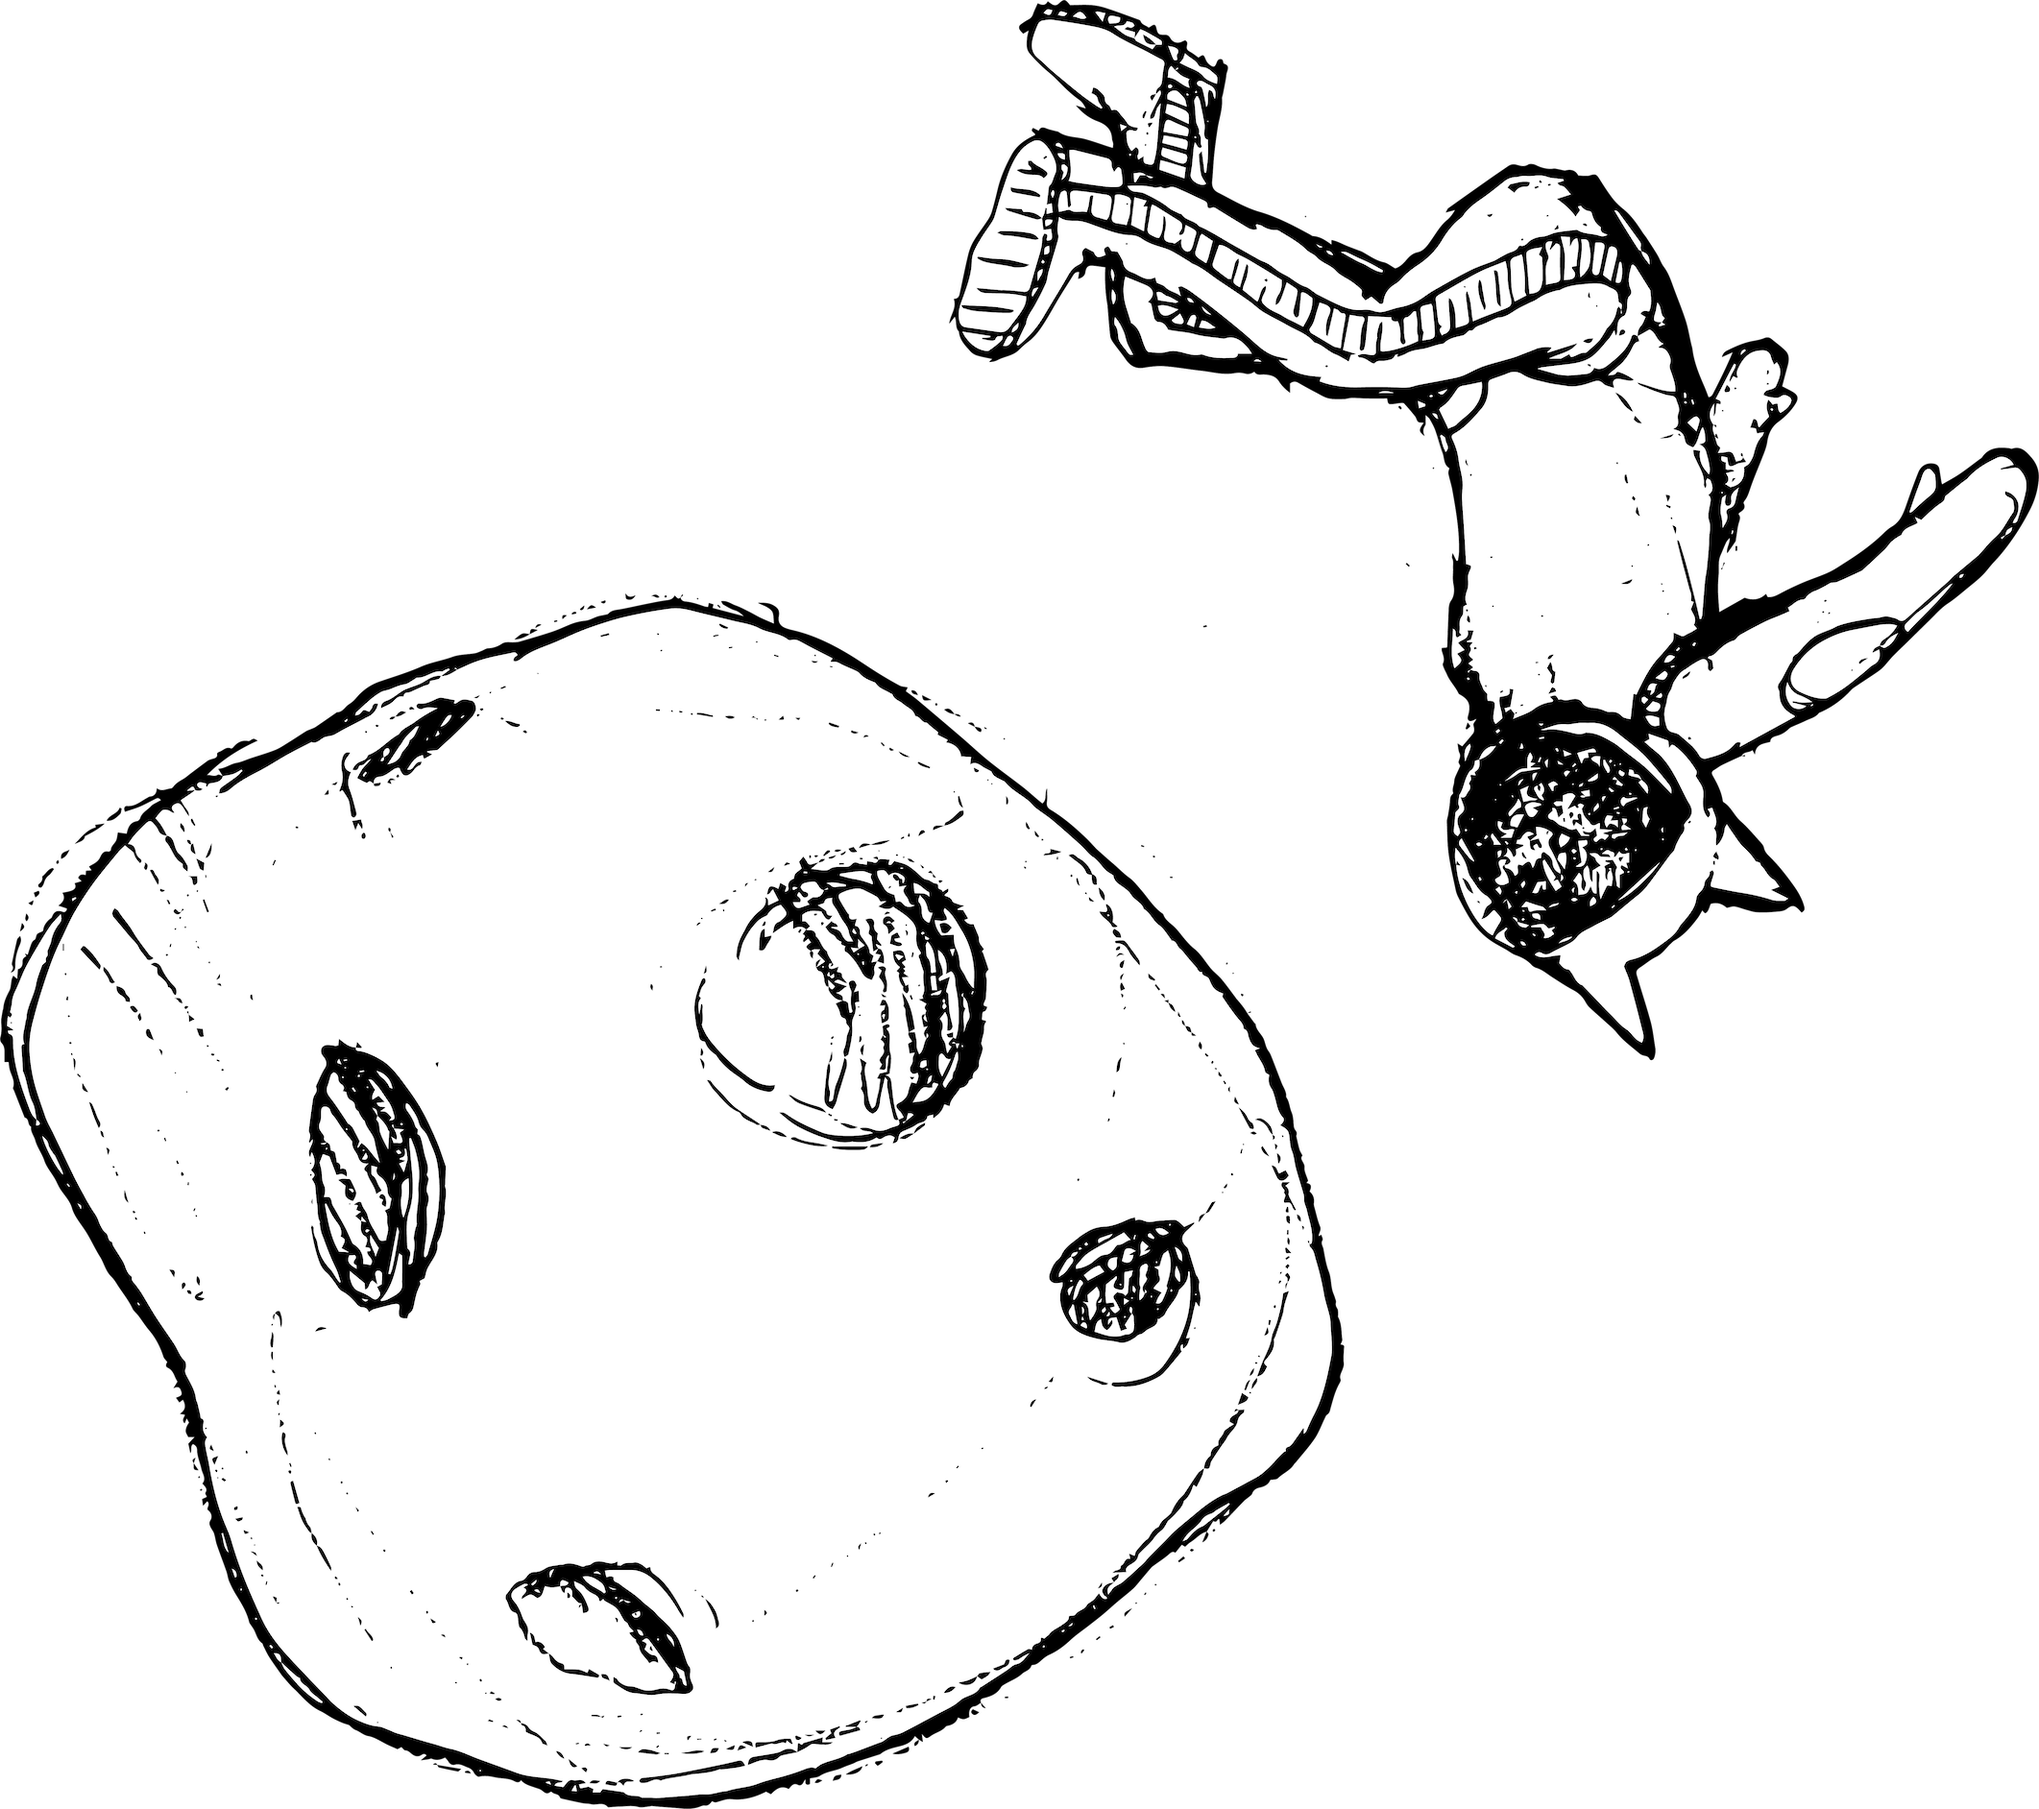
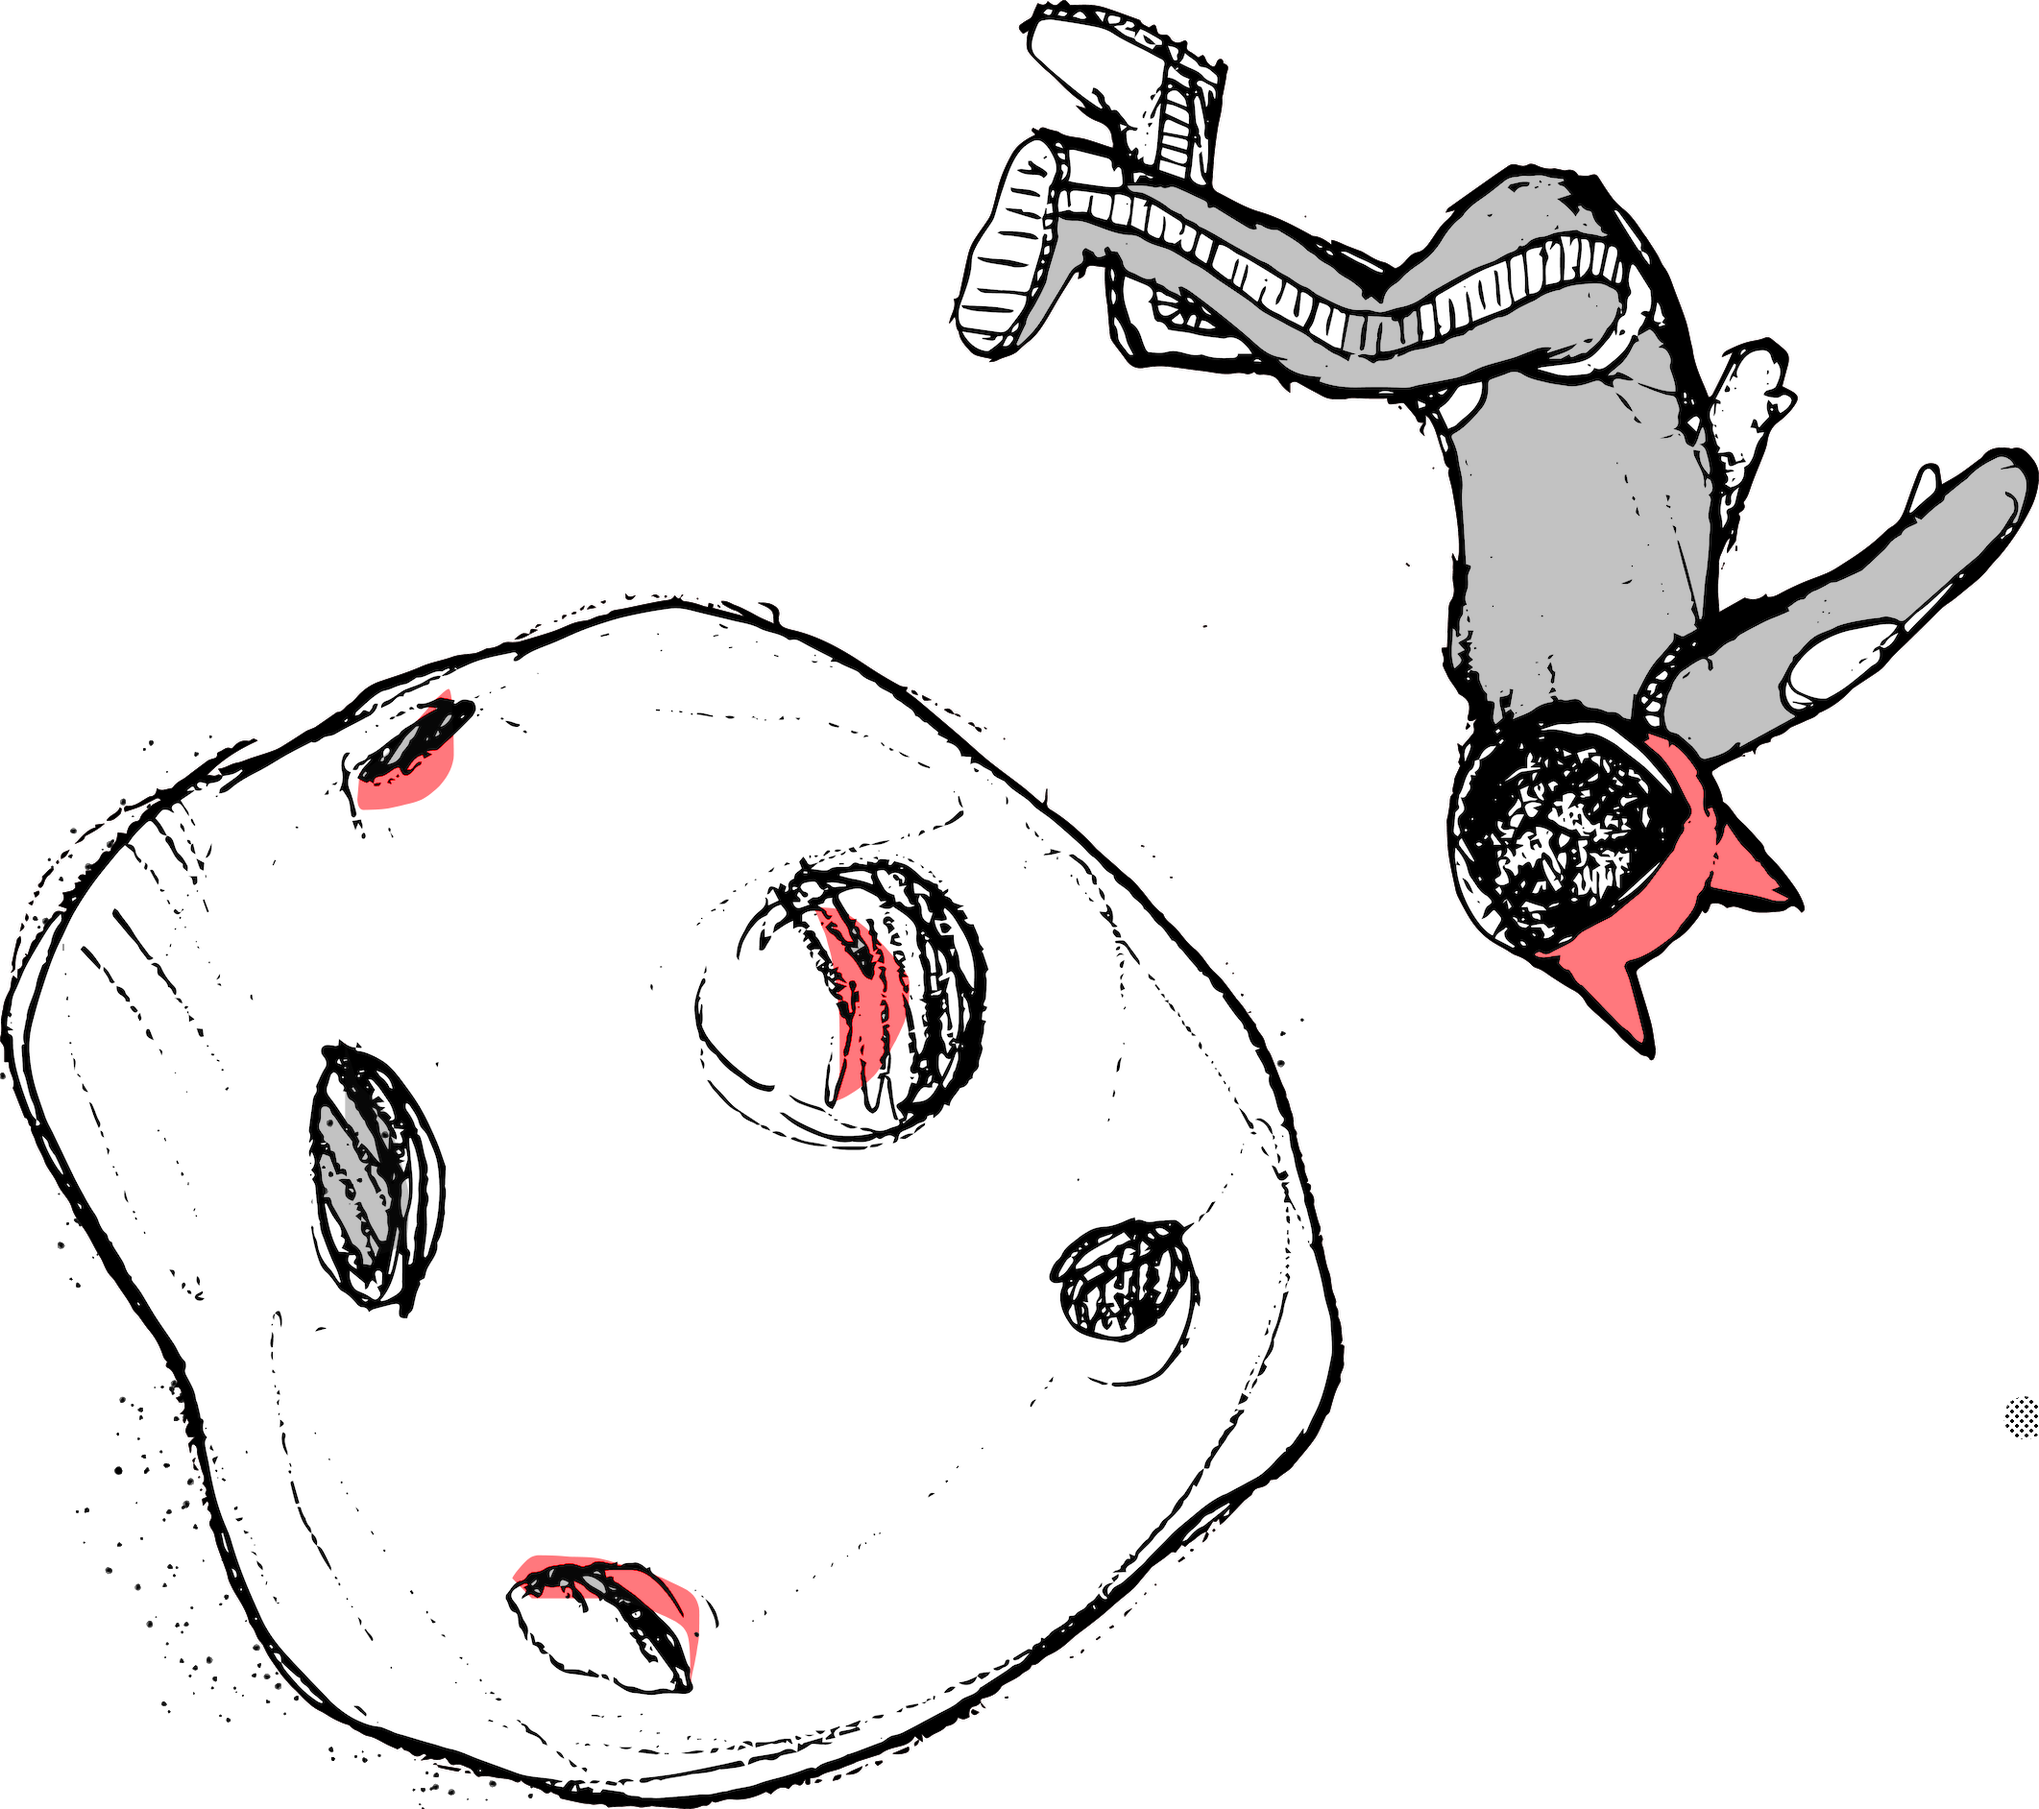
Add files via upload

diff --git a/compo-t11.html b/compo-t11.html
@@ -215,34 +215,28 @@
           </div>
           
             <div
-              class="card card-wide glow"
-              style="background-image: url('school-cell-a-1.png')"
-            >  
-
-            <div class="card card-wide glow">
-            <!-- INNER DIV STORY -->
-
-            <!-- SCENE 2 - GRAPHIC SCENE A - -->
-                <div class="scene-2-graphicBlock-2"></div>
-            <!-- SCENE 2 - GRAPHIC SCENE A - -->
-
-            </div></div>
-            <div
-              class="card card-wide glow">
+              class="card glow">
             <div class="scene-2-1">
               <div class="sceneCopy">
                 <p class="sceneText">Which was great</p>
-                <img src="school-cell-a-3.png" class="sceneGraphic">
+              
               </div>
               </div>
           
           </div>
+
+<div class="card glow">
+    <!-- SCENE 2 - GRAPHIC SCENE A - -->
+    <div class="scene-2-graphicBlock-2"></div>
+    <!-- SCENE 2 - GRAPHIC SCENE A - -->
+</div>
+          
             <div
-              class="card card-wide glow">
+              class="card glow">
             <div class="scene-2-1">
               <div class="sceneCopy">
                 <p class="sceneText">I suppose</p>
-                <img src="school-cell-a-3.png" class="sceneGraphic">
+                
               </div>
               </div></div>
             <div
@@ -250,7 +244,7 @@
               style="background-image: url('s2-t5.png')"
             ></div>
             <div
-              class="card card-wide-wide glow">
+              class="card glow">
             <div class="scene-2-1">
               <div class="sceneCopy">
                 <p class="sceneText">I just wanted to build a rocket</p>
@@ -263,12 +257,18 @@
                 </div>
                 </div></div>
               
-              <div class="card card-wide-75 glow">
+              <div class="card card-wide glow">
  <!-- SCENE 2 - GRAPHIC SCENE A - -->
  <div class="scene-2-graphicBlock-1"></div>
 
  <!-- SCENE 2 - GRAPHIC SCENE A - -->
 </div>
+<div class="card card-wide glow">
+    <!-- SCENE 2 - GRAPHIC SCENE A - -->
+    <div class="scene-2-graphicBlock-2"></div>
+   
+    <!-- SCENE 2 - GRAPHIC SCENE A - -->
+   </div>
           </div>
         </section>
         <div class="stars"></div>
@@ -310,6 +310,11 @@
           </div>
   </div>
       </div>
+
+      <div class="card glow">
+  <!-- SCENE 2 - GRAPHIC SCENE A - -->
+ <div class="scene-2-graphicBlock-1"></div>
+</div>
           <!-- COPY HERE -->
           <div class="card card-wide card-tall glow">
 
@@ -354,7 +359,7 @@
  </div>
      </div>
          <!-- COPY HERE -->
-         <div class="card card-wide-wide glow">
+         <div class="card glow">
 
           <div class="scene-1-3">
           
@@ -362,9 +367,8 @@
                 <p class="sceneText">I became unhinged</p>
             </div>
             <div class="sceneGraphic-wrap">
-            <img src="scene1-3.png" class="sceneGraphic">
-            <img src="scene1-3.png" class="sceneGraphic">
-            <img src="scene1-3.png" class="sceneGraphic">
+                <div class="scene-3-graphicBlock-1"></div>
+            
            </div>
    </div>
        </div>
@@ -377,7 +381,7 @@
 
     <div>
         <br>
-        <h1>and then I met ape</h1>
+        <h1>but then I met ape</h1>
 
 
         <!-- THE STORY ENDER BANGA BANGA-->
@@ -483,10 +487,8 @@
    
     <br>
      <div class="wrapper-installApe">
-       <img src="apeBig.png">
-         <br><h1 class="header-sub">The web3 application company
-             for Pythonistas, Data Scientists, and Security Professionals</h1>
-         <br>
+       <img src="apeFull.png" class="headerLogo">
+        
              <div class="verticalMenu">
              <a class="install-ape-text" href="#">Install Ape</a>
          <br><a class="install-ape-text" href="#">Documentation</a>
@@ -499,8 +501,9 @@
                 <img src="apeFull.png" class="headerLogo">
             </div>
             <div>
-                <p>We are building Ape Framework, the premiere Python devtool for smart contract development and on-chain interactions that helps developers create, test and deploy new smart contract projects, aggregate and process large data sets that they produce, and transact on-chain in a safe and secure way with your favorite wallets.
+                <p>We are building Ape Framework, the premier Python devtool for smart contract development and on-chain interactions. By using Ape Framework, developers can create, test, and deploy smart contract projects, aggregate and process the large amounts of data they produce, and transact on-chain using wallets of their choice.
                 </p>
+                <br><a href="#">Learn More</a>
             </div>
             <div>
                 <p>Copywright @ 2023 - ApeWorx, LTD</p>

diff --git a/compo-t11.css b/compo-t11.css
@@ -127,6 +127,27 @@ s
     padding: 0;
     margin: 0;
   }
+
+  .card-full2 {
+    display: flex;
+    flex-direction: column;
+    justify-content: center;
+    align-items: center;
+    background: #353535;
+    font-size: 3rem;
+    color: #fff;
+    box-shadow: rgba(3, 8, 20, 0.1) 0px 0.15rem 0.5rem, rgba(2, 8, 20, 0.1) 0px 0.075rem 0.175rem;
+    height: 100%;
+    width: 100%;
+    border-radius: 4px;
+    transition: all 500ms;
+    overflow: hidden;
+    background-size: cover;
+    background-position: center;
+    background-repeat: no-repeat;
+    padding: 0;
+    margin: 0;
+  }
   
   @media screen and (min-width: 600px) {
     .card-tall {
@@ -358,12 +379,12 @@ ful
     border-color:transparent;
     font-family: 'Inter', sans-serif;
     color:rgb(255, 255, 255);
-    padding:25px;
+    padding:15.5px;
 }
 
 .menuButton:hover {
     font-size:16px;
-    background-color: rgba(240, 248, 255, 0);
+    background-color: rgba(32, 32, 32, 0.887);
     border-style:solid;
     border-color:rgb(255, 255, 255);
     cursor: pointer;
@@ -561,6 +582,17 @@ ful
 
 }
 
+.sceneGraphic-topAlign {
+    width:100%;
+    display:flex;
+    align-items: top;
+    justify-content: top;
+    position:absolute;
+    width:50%;
+    top:20;
+    left:0;
+}
+
 .scene-1-5 {
     width:100%;
     height:100%;
@@ -597,6 +629,22 @@ ful
     background-position: center;
     /* background-repeat: none;*/
     background-image:url("mofo.png");
+    text-align:center;
+    padding:20px;
+   /* mix-blend-mode: lighten; */
+    display:flex;
+    align-items:center;
+    justify-content: center;
+}
+
+.scene-2-graphicBlock-2 {
+    width:100%;
+    height:100%;
+    background-color:#D6D6D6;
+    background-size:40%;
+    background-position: center;
+    /* background-repeat: none;*/
+    background-image:url("unhinge-2.png");
     text-align:center;
     padding:20px;
    /* mix-blend-mode: lighten; */
@@ -673,6 +721,27 @@ ful
     width:100%;
     height:auto;
     text-align:center;
+}
+
+/*SCENE 3 GRAPHICS */
+
+/*UNHINGED GRAPHIC BLOCK*/
+.scene-3-graphicBlock-1 {
+    position: relative;
+    width:100%;
+    height:45%;
+    background-color:#D6D6D6;
+    background-size:contain;
+    background-position: top;
+    background-repeat: repeat-x;
+    
+    background-image:url("unhinge-color.png");
+    text-align:center;
+    padding:20px;
+   /* mix-blend-mode: lighten; */
+    display:flex;
+    align-items:center;
+    justify-content: center;
 }
 
 .sceneText {
